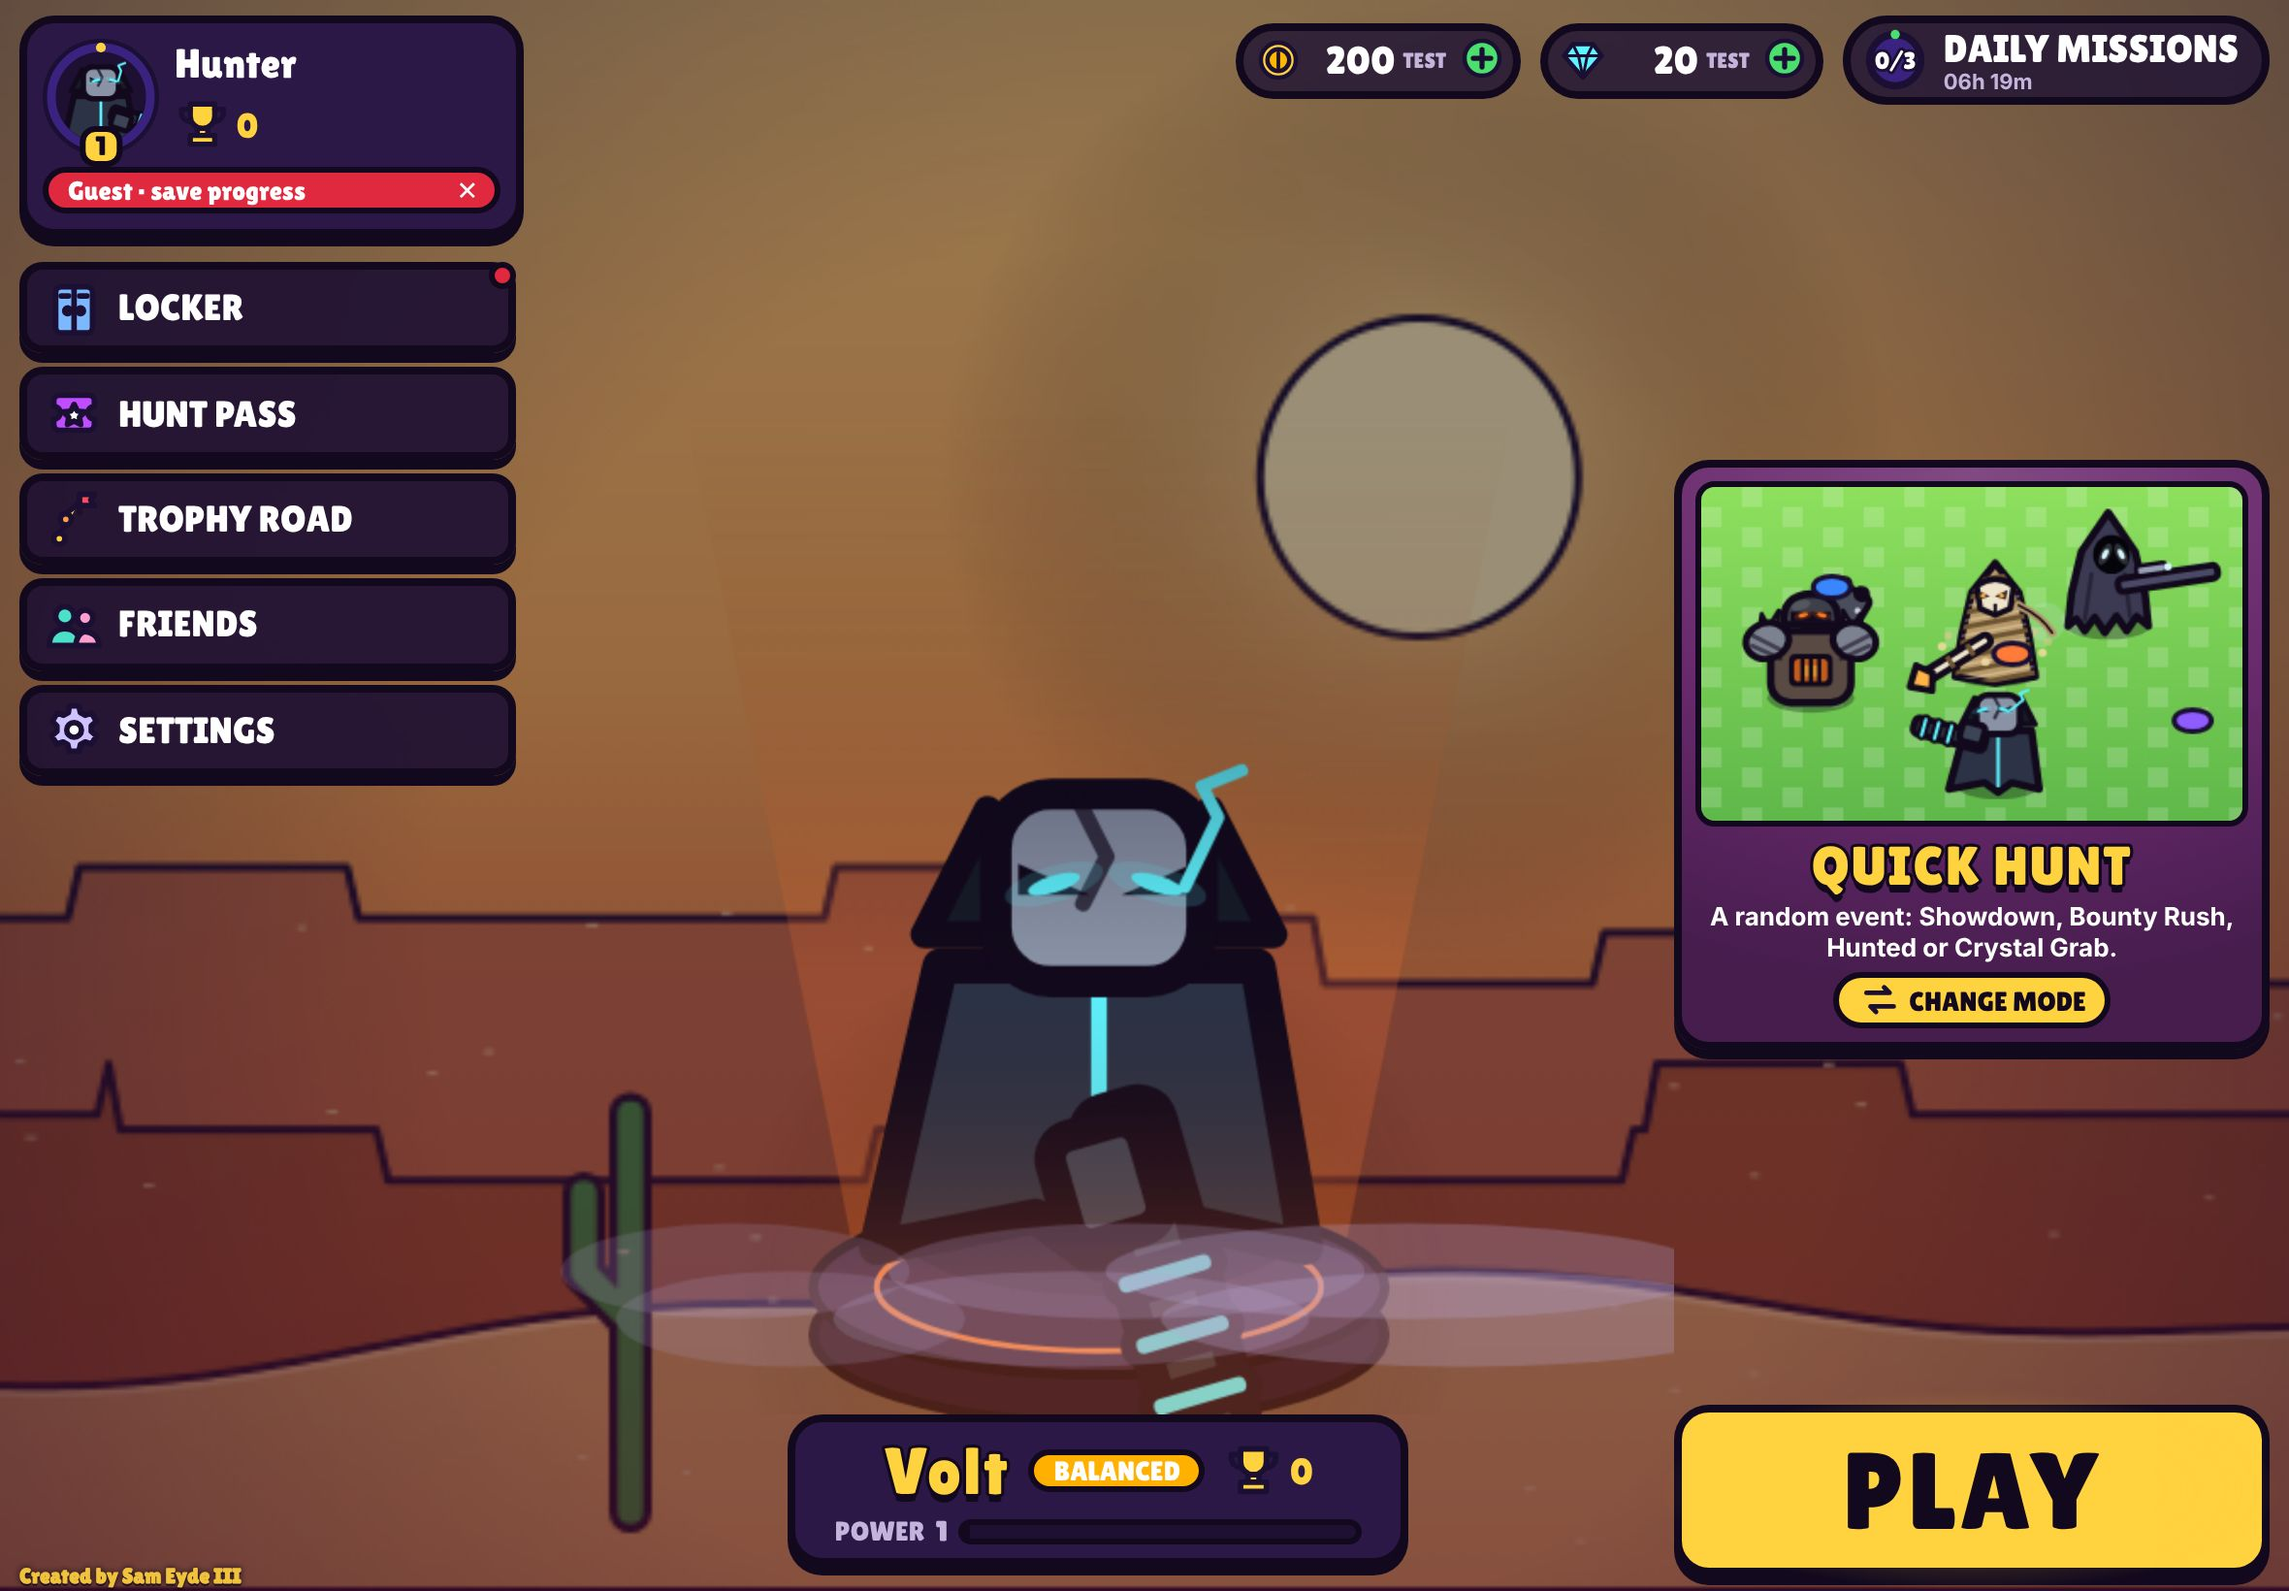
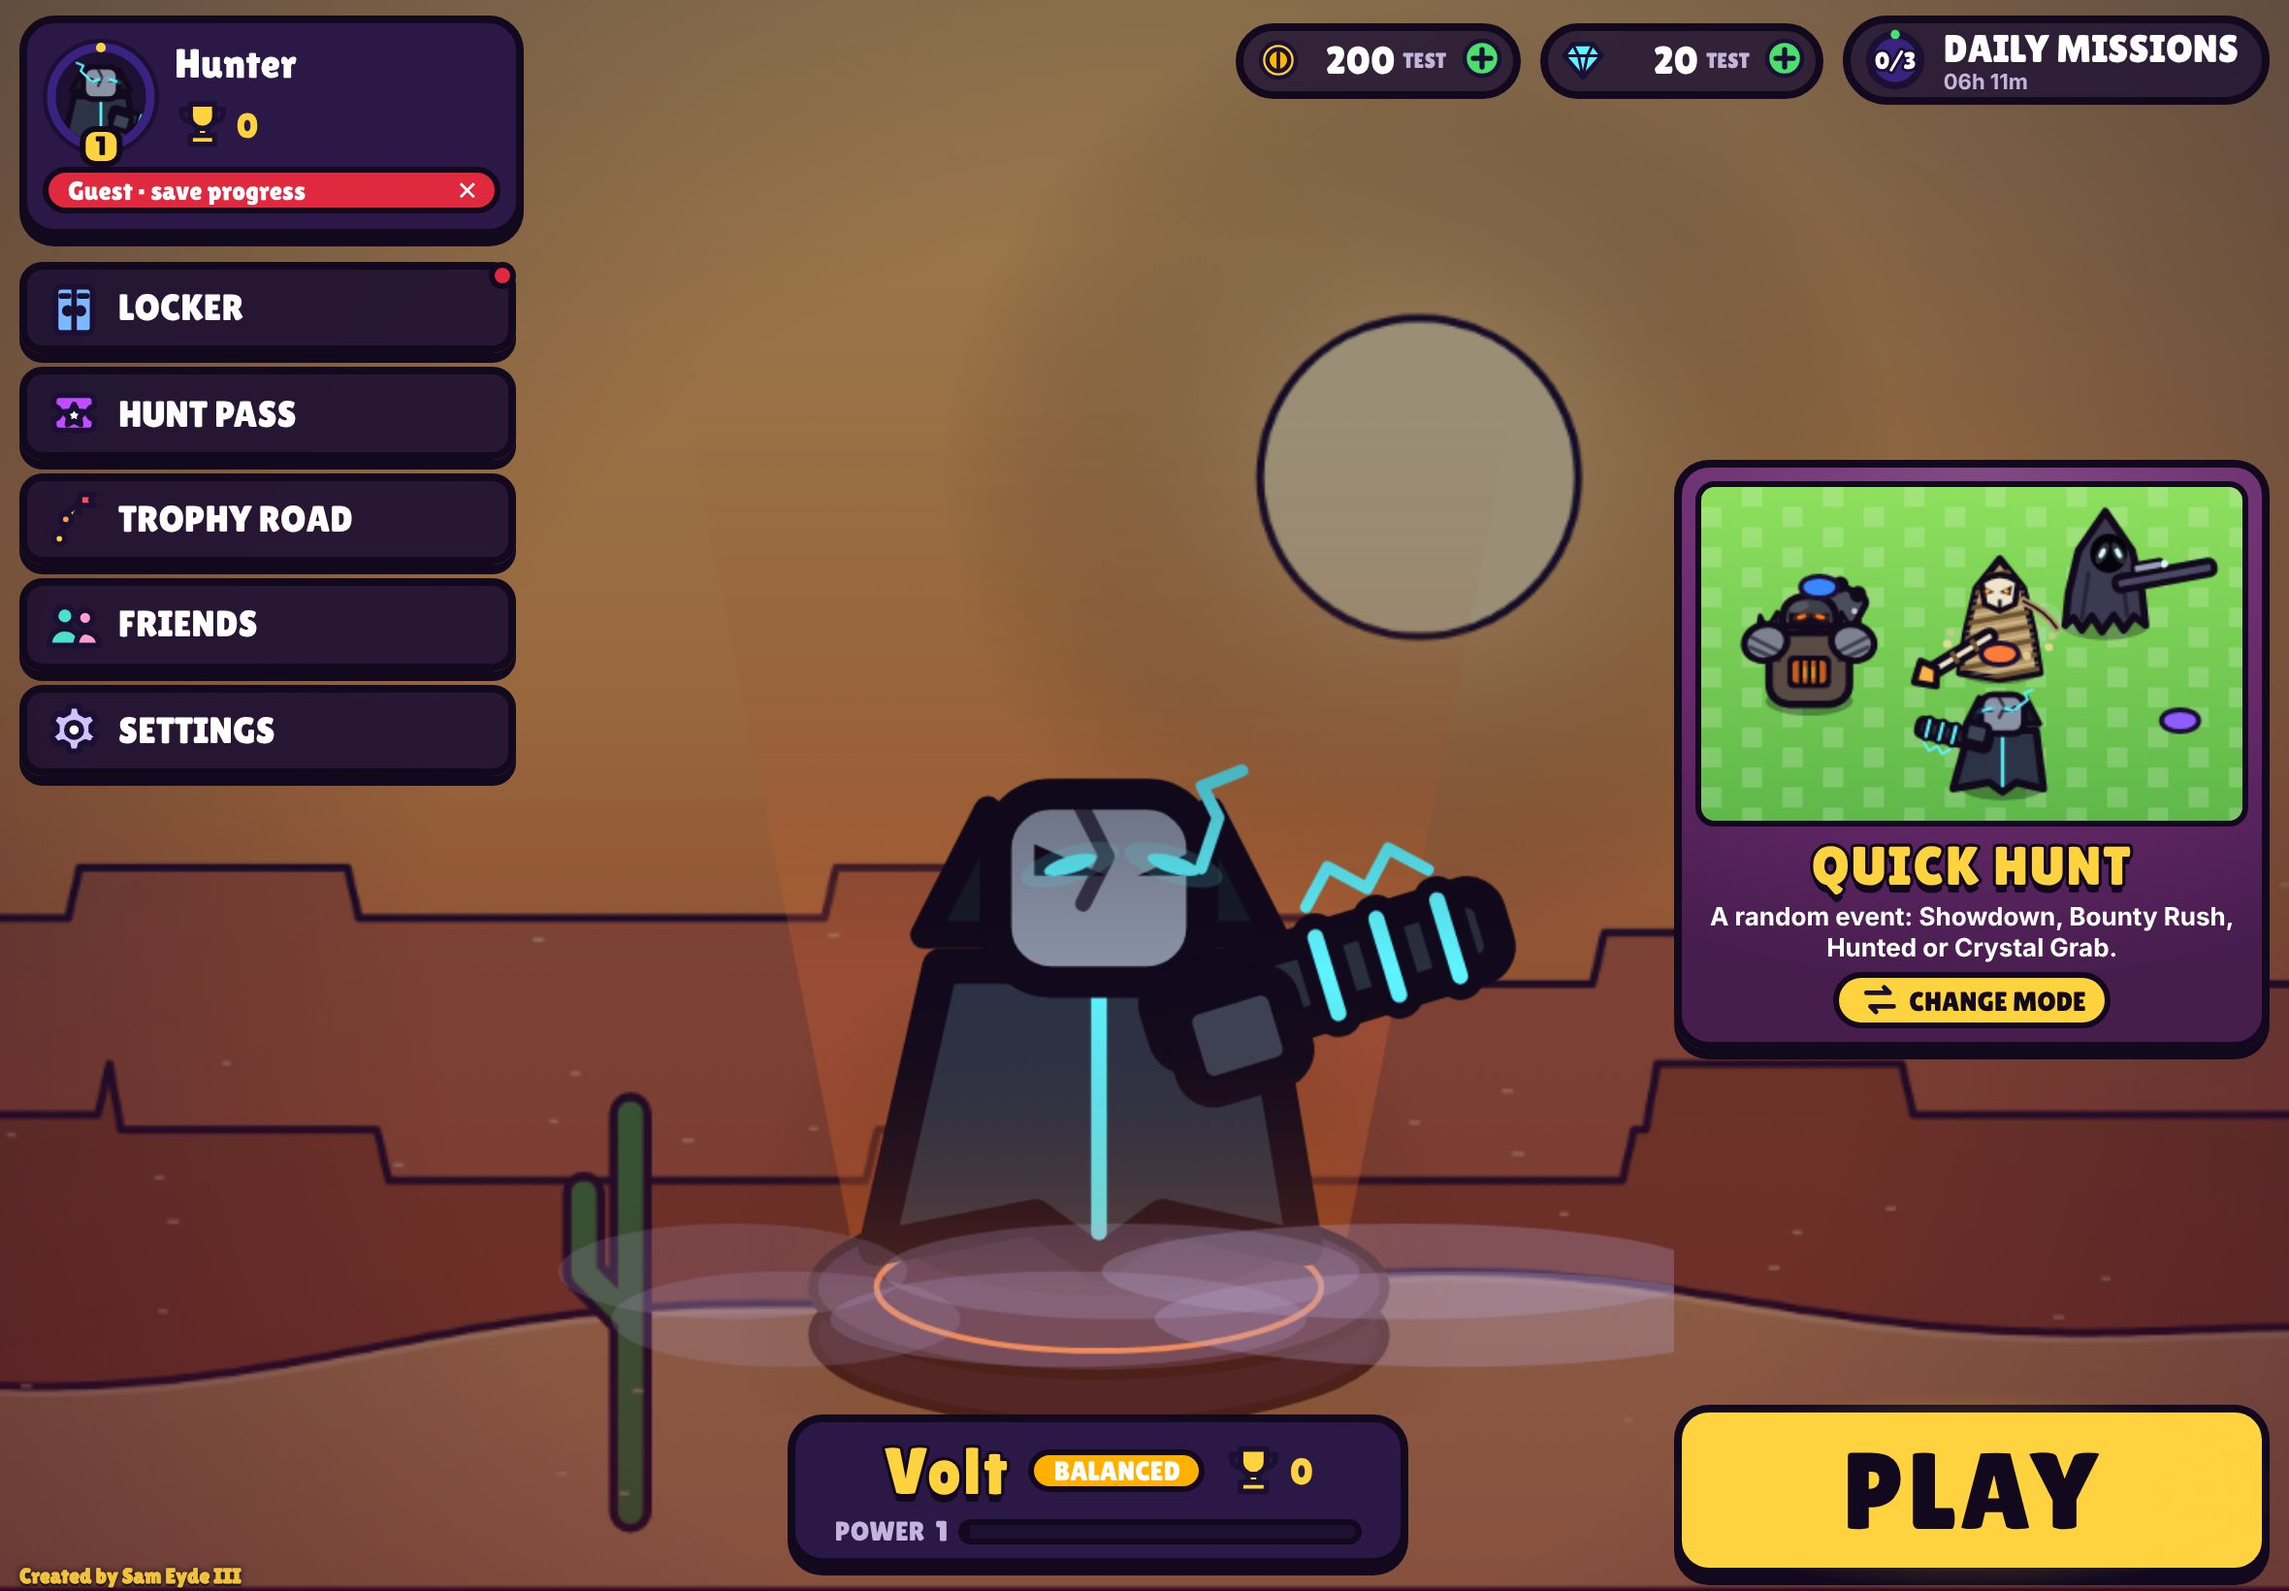
hunt: UPGRADE.md + before/after screenshots (iPhone + iPad)
Claude-Session: https://claude.ai/code/session_01ULcSdMBoazBaVJdhzVFwFu

Changed region(s): [[0.4331, 0.5287, 0.6805, 0.9018], [0.7424, 0.311, 0.9898, 0.4976], [0.928, 0.4354, 0.9898, 0.4665]]

diff --git a/hunt/UPGRADE.md b/hunt/UPGRADE.md
@@ -1,0 +1,97 @@
+# World + Brawler Upgrade
+
+Branch `upgrade/world-and-brawlers`, merged into `main`. Only `hunt/` changed. Screenshots are in `docs/upgrade/` (`before-*` / `after-*` / `zone-*` / `worldmap-*`, each on iPhone and iPad).
+
+## Part 1 — the bigger world
+
+### Free Play: 20000 × 20000 (was 4000 × 4000)
+
+**Layout.** A 3×3 grid of zones, each its own Durable Object. Crossing between zones is seamless, in both directions. The safe hub sits in the middle of the Hub district, and you arrive there.
+
+| | | |
+|---|---|---|
+| Neon City | **Ruined Citadel** | Wildwood (forest) |
+| **The Hollow** | The Hub | **Ashlands** |
+| Frozen Lake | **Dead Marsh** | Desert Mirage |
+
+The middle tile, the Hub district, is a ninth area around the safe hub: open plaza where every road meets.
+
+**The four new zones:**
+- **Ashlands:** black basalt, glowing cracks, two lava rivers with bridges, and a smoking **Volcano**.
+- **Dead Marsh:** fog, gnarled dead trees, plank boardwalks, and **sinking mud that slows you**.
+- **Ruined Citadel:** a huge fortress with gated walls, corner towers, courtyards and tunnels, around the **Giant Tower**.
+- **The Hollow:** dark caves with narrow passages and glowing crystals. The cave generator removes 1-tile squeezes and unreachable pockets.
+
+**Finding your way:**
+- **Roads** run from the hub to every zone, plus a ring road through the outer zones. Zone fences always have a gate where a road crosses.
+- **Landmarks** are visible from far away: the Giant Tower, the Volcano, and a **Frozen Waterfall** in Frozen Lake. Off-screen landmarks show as compass markers at the screen edge, with their distance.
+
+**Points of interest** in every zone:
+- power-cube vaults (a walled room with crates)
+- crate caches
+- ambush bushes beside the roads
+- high ground: you see further, and into bushes from twice as far
+
+Free Play crates refill after 90 s.
+
+**Maps:**
+- **Minimap** (top-left): your area, landmarks, bounty pings and the top bounty holder.
+- **Full map** (tap the minimap): every zone, the roads and landmarks, your position, the top bounty holder, the events running in each zone, and the day/night clock.
+
+### Day / night (10-minute cycle, the same in every zone)
+- **Night:**
+  - vision shrinks
+  - fog rolls in
+  - bushes get darker
+  - high bounties glow brighter and can be spotted from further away
+- **Blood Moon:** once per night, for 2 minutes. Every kill is worth double bounty. The screen gets a steady red tint (no flashing) and original tense music plays.
+- **Banners** announce nightfall, dawn, the Blood Moon and each zone you enter.
+
+### Quick Hunt arenas
+- **Sizes:** 10 players = 3000 × 3000 (was 2000). New **Big Hunt**: 20 players on 5000 × 5000, Showdown rules, chosen from the mode list.
+- **Layouts:** every world has two, picked by the match seed: Crossfire, The Keep, Broken Rings, Three Lanes. The four new worlds are Quick Hunt arenas too.
+- **Balance:** a balance check over many seeds averages every brawler at 48.8–51.0% (target 45–55%). No stats were changed. The first version of Broken Rings was tuned because its solid rings forced every fight to close range.
+
+### Tech for a big world
+- **Chunks:** ground is drawn in chunks, and only about 48 near the camera stay in memory. Wall art is cached per world with a size limit.
+- **Interest management:** the server only sends each player the bullets, pickups, effects and radar pings near them. Tests show snapshot size stays flat however much happens far away (about 400 bytes per update).
+
+## Part 2 — the hunters
+
+- **All six redesigned:**
+  - **Volt:** storm hunter with a cracked mask leaking lightning, long coat, crackling rifle.
+  - **Brick:** armoured brute with a stone helmet, glowing furnace chest and scrap shotgun.
+  - **Wisp:** faceless hooded sniper with pale eyes and a mist trail.
+  - **Dune:** bandaged desert wraith with a bone mask and swirling sand.
+  - **Rook:** crow-skull helmet, feathered cloak, chains, hooks.
+  - **Flicker:** all-black shadow assassin with a jagged grin mask and twin blades; blurs when moving.
+- **Animation:** threatening idles (breathing, cloaks, glowing eyes, weapon twitches).
+- **Unchanged:** names, roles, stats and hitboxes are exactly the same; only the drawing changed.
+- **Skins:**
+  - Old skins now recolour the new designs.
+  - Every brawler gets a free **Classic** skin with the original cute look; old saves get it automatically.
+- **Scary feel:**
+  - an original growl when you pick a hunter
+  - eliminations shatter into dark shards, smoke and embers (no blood)
+  - a heartbeat and darker screen edges when an enemy hides nearby
+  - the top bounty holder is **Marked**: a red aura and a skull over their head
+- **Lobby:**
+  - the hunter is lit from below, with fog rolling over the pedestal
+  - a darker theme: deep purples and blacks with gold and red accents
+  - "Created by Sam Eyde III" is still shown
+
+## Checks
+
+| Check | Result |
+|-------|--------|
+| Tests | All Node tests pass. 53/53 browser tests pass on Chromium. Firefox and WebKit can't be installed in this environment; run `npx playwright install firefox webkit && npm run e2e` on your machine. |
+| 20-player Big Hunt with bots | All 20 present on the 5000 arena. Prediction correction stays under 25 px (test `bighunt.spec.js`). |
+| Frame rate at iPhone SE size, normal CPU | **60 fps** in a 20-player Big Hunt, and **60 fps** in Free Play at the Volcano at night. |
+| Frame rate with the CPU slowed 4× (stand-in for an older phone) | About **50 fps** in arenas. Free Play **38–49 fps** depending on the scene; Low Graphics brings the heaviest scene to about 50. This test browser draws pixels in software (most of the time goes there); a real iPhone uses its graphics chip, so treat these as worst case. |
+| Old saves and skins | Covered by `cosmetics.test.js`: an old save keeps its skins and equipped skin, and gains the Classic skins. |
+
+## Needs Sam's decision
+
+1. **Zone count.** The Hub district in the middle is its own zone server, so there are 8 themed zones plus the hub tile: 9 Durable Objects in all. The alternative, 8 wedge-shaped zones meeting at the hub, would make people near the hub hop between servers constantly.
+2. **Visual darkness vs gameplay vision.** At night and in the Hollow, the screen dims closer to you than the server's actual vision limit. That's deliberate, so night reads as dark on a phone. Things in the dim area are darker, not hidden.
+3. **Where to look on a real phone.** If an older iPhone struggles in Free Play at night, the first things to cut are fog banks and volcano smoke; Low Graphics already turns them off.
